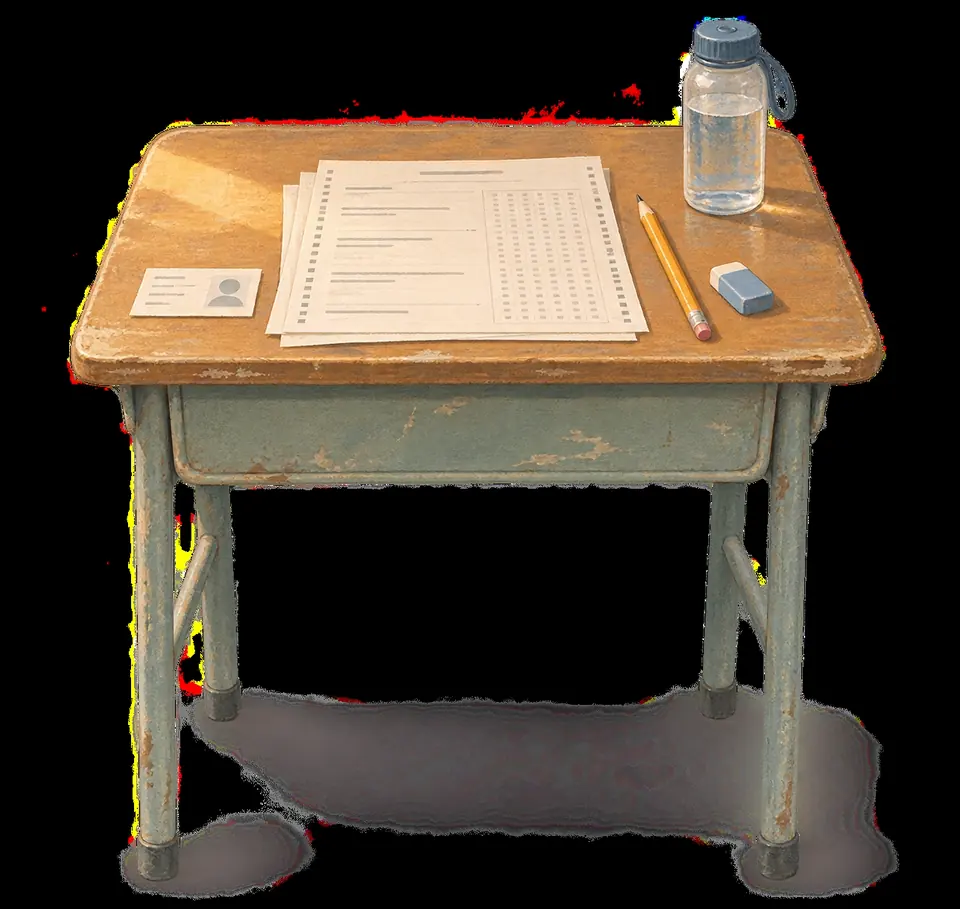
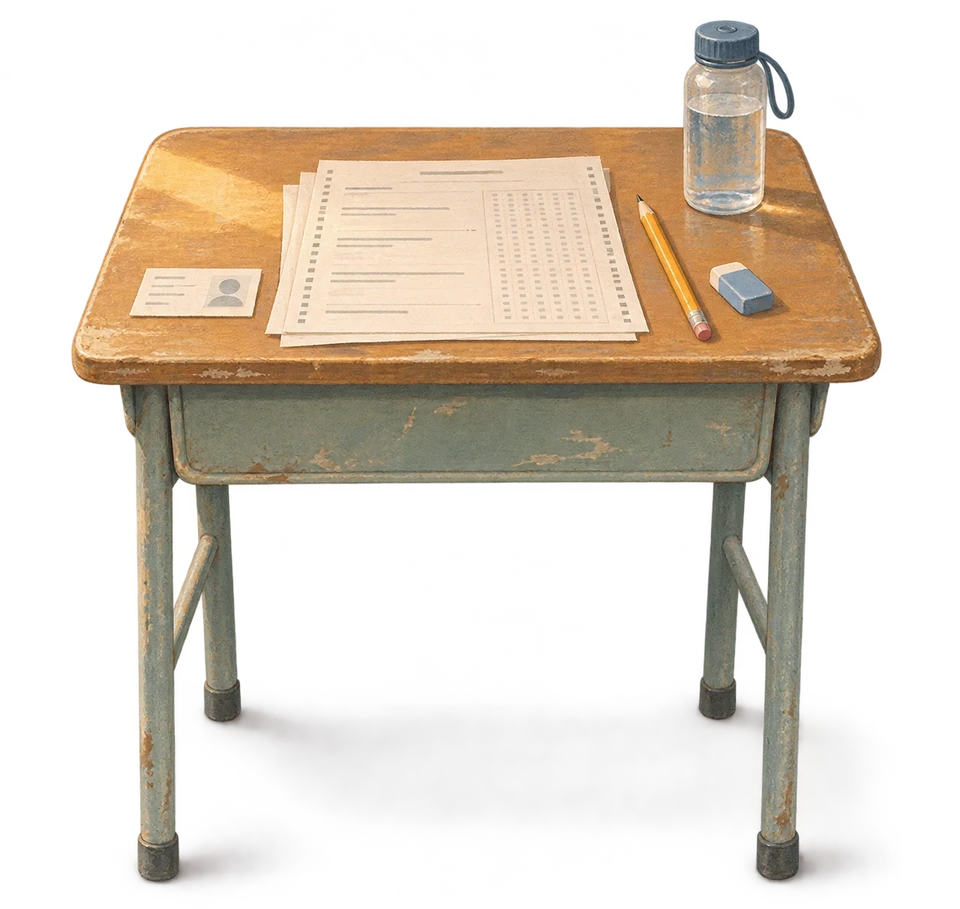
feat(another-life): 启卷粒子重排为相册页
- 开头按片尾同款像素粒子反向重排出生辰相册页
- 阅读态改为停稳进入、回到顶部退出
- 命盘页先显示四柱与文字，金文字形最多等 1.5 秒
- 道具变体保留透明通道，片尾文字放大下移

diff --git a/app/another-life/assets/js/app.js b/app/another-life/assets/js/app.js
@@ -663,7 +663,6 @@
   async function inscription(isEcho = false) {
     echoMode = isEcho;
     showScreen('inscription');
-    await loadGlyphs();
     const token = ++goldToken;
     goldWriters = [];
     $('gold-continue').disabled = true;
@@ -678,11 +677,31 @@
     $('gold-pillars').setAttribute('aria-label', keys.map((key) => chart.pillars[key].ganzhi).join(' '));
     $('gold-terms').innerHTML = `<div class="destiny-identity"><span>${chart.input.genderCode === 'M' ? '乾造' : '坤造'}</span><i></i><span>${n.dm.gan}${n.dm.el}日主</span><i></i><span>${escape(n.strength.label)}</span></div><div class="destiny-reading"><span class="destiny-pattern">${escape(n.geju.name)}</span><div class="destiny-elements"><p><em>喜</em>${n.xiji.xi.map(item=>item.el).join(' · ')}</p><p><em>忌</em>${n.xiji.ji.map(item=>item.el).join(' · ') || '无明确忌神'}</p></div></div><div class="destiny-onset"><span>${chart.yun.forward ? '顺行' : '逆行'} · ${chart.yun.start.years}岁${chart.yun.start.months}个月${chart.yun.start.days}天起运</span><time>${chart.yun.startSolar}</time></div>`;
     const size = innerWidth <= 760 ? 64 : innerHeight <= 700 ? 78 : 100;
-    keys.forEach((key, i) => Array.from(chart.pillars[key].ganzhi).forEach((char, j) => {
-      if (window.FIRE_GLYPHS?.[char]) { { const w = createFireWriter(`glyph-${i}-${j}`, char, size); w.row = j; goldWriters.push(w); } }
-      else $(`glyph-${i}-${j}`).innerHTML = `<span class="gold-char-fallback">${char}</span>`;
+    // 先把四柱显示出来，不等金文字形文件。字形慢时直接落到文字，不让人对着空白页等。
+    const paintFallback = () => keys.forEach((key, i) => Array.from(chart.pillars[key].ganzhi).forEach((char, j) => {
+      const holder = $(`glyph-${i}-${j}`);
+      if (holder) holder.innerHTML = `<span class="gold-char-fallback">${char}</span>`;
     }));
+    paintFallback();
+    // 最多等 1.5 秒；超时就用当前文字先把命盘页交出去，按钮仍然可点。
+    const loaded = await Promise.race([
+      loadGlyphs().then(() => true),
+      new Promise((resolve) => setTimeout(() => resolve(false), 1500)),
+    ]);
+    if (token !== goldToken) return;
+    if (loaded && window.FIRE_GLYPHS) {
+      keys.forEach((key, i) => Array.from(chart.pillars[key].ganzhi).forEach((char, j) => {
+        const holder = $(`glyph-${i}-${j}`);
+        if (!holder) return;
+        holder.innerHTML = '';
+        if (window.FIRE_GLYPHS?.[char]) { const w = createFireWriter(`glyph-${i}-${j}`, char, size); w.row = j; goldWriters.push(w); }
+        else holder.innerHTML = `<span class="gold-char-fallback">${char}</span>`;
+      }));
+    }
+    $('gold-continue').disabled = false;
+    $('gold-continue').innerHTML = echoMode ? '回到这一生 <span>↗</span>' : '焚字入卷 <span>↗</span>';
     if (reduced) return revealGold();
+    if (!goldWriters.length) { revealGold(); return; }
     try {
       // 四柱一起、一口气下来：天干快落到底时，地支紧接着从同一道火线继续往下
       const runs = [];
@@ -1234,104 +1253,136 @@
   async function playEntry() {
     if (entryActive) return;
     const albumKey = innerWidth <= 760 ? 'album-mobile' : 'album-desktop';
-    const albumImage = document.querySelector('.album-art img');
+    const albumEl = document.querySelector('.album-art img');
     if (reduced) { await preloadArt(albumKey); return finishEntry(); }
     entryActive = true;
     const run = ++entryRun;
     $('begin').disabled = true;
-    if (albumImage) albumImage.loading = 'eager';
-    // 相册底图是进入生辰页的整页背景。先把它取回来再起动画，
-    // 否则启卷过程中会先露出背后的场景图，等底图加载完再突然换成相册页。
+    if (albumEl) albumEl.loading = 'eager';
     await Promise.all([sealReady, preloadArt(albumKey)]);
     if (!entryActive || run !== entryRun) return;
+
+    const W = innerWidth, H = innerHeight;
+    const ratio = Math.min(devicePixelRatio || 1, 2);
     const canvas = $('entry-canvas');
-    canvas.hidden = false;
-    const context = canvas.getContext('2d');
-    const width = innerWidth, height = innerHeight;
-    const ratio = Math.min(devicePixelRatio, 2);
-    canvas.width = width * ratio; canvas.height = height * ratio;
-    context.setTransform(ratio, 0, 0, ratio, 0, 0);
+    canvas.hidden = false; canvas.style.opacity = '1';
+    canvas.width = Math.round(W * ratio); canvas.height = Math.round(H * ratio);
+    const ctx = canvas.getContext('2d');
+    ctx.setTransform(ratio, 0, 0, ratio, 0, 0);
+
+    let source = albumEl;
+    if (!source || !source.complete || !source.naturalWidth) {
+      source = new Image();
+      source.src = window.ART[albumKey];
+      try { await source.decode(); } catch (_) { /* 已缓存失败时继续用底色 */ }
+    }
+    const target = document.createElement('canvas');
+    target.width = Math.round(W * ratio); target.height = Math.round(H * ratio);
+    const tc = target.getContext('2d');
+    tc.setTransform(ratio, 0, 0, ratio, 0, 0);
+    tc.fillStyle = '#f4eedf'; tc.fillRect(0, 0, W, H);
+    const stageW = Math.max(W, 1.7777778 * H);
+    const stageH = Math.max(H, .5625 * W);
+    if (source && source.naturalWidth) tc.drawImage(source, (W - stageW) / 2, (H - stageH) / 2, stageW, stageH);
+    // 像片尾那样连标题/扉页文字一起取样，不是只拼一张空相册
+    const birth = $('birth');
+    const copy = document.querySelector('.birth-copy');
+    const wasHidden = birth.hidden;
+    const copyOpacity = copy ? copy.style.opacity : '';
+    birth.hidden = false;
+    if (copy) copy.style.opacity = '1';
+    try { paintDom(tc, [document.querySelector('header'), copy].filter(Boolean)); } catch (_) { /* 忽略 */ }
+    birth.hidden = wasHidden;
+    if (copy) copy.style.opacity = copyOpacity;
+
+    const step = Math.max(4, Math.round(Math.sqrt(W * H / 13000)));
+    const cols = Math.ceil(W / step), rows = Math.ceil(H / step);
+    const cell = document.createElement('canvas'); cell.width = cols; cell.height = rows;
+    const cc = cell.getContext('2d', { willReadFrequently: true });
+    cc.imageSmoothingQuality = 'high';
+    cc.drawImage(target, 0, 0, W * ratio, H * ratio, 0, 0, cols, rows);
+    const td = cc.getImageData(0, 0, cols, rows).data;
+
     const rect = $('entry-seal').getBoundingClientRect();
     const sampled = document.createElement('canvas');
-    sampled.width = Math.round(rect.width); sampled.height = Math.round(rect.height);
-    const sampleContext = sampled.getContext('2d', { willReadFrequently:true });
-    const sourceWidth = width <= 760 ? 490 : 550;
+    sampled.width = Math.max(1, Math.round(rect.width));
+    sampled.height = Math.max(1, Math.round(rect.height));
+    const sc = sampled.getContext('2d', { willReadFrequently: true });
+    const sourceWidth = W <= 760 ? 490 : 550;
     const sourceHeight = sourceWidth * sealImage.height / sealImage.width;
-    sampleContext.drawImage(sealImage, (rect.width - sourceWidth) / 2, (rect.height - sourceHeight) * .52, sourceWidth, sourceHeight);
-    const data = sampleContext.getImageData(0, 0, sampled.width, sampled.height).data;
-    const particles = [];
-    const centerX = rect.left + rect.width / 2;
-    const centerY = rect.top + rect.height / 2;
-    const midX = sampled.width / 2, midY = sampled.height / 2;
-    const maxR = Math.hypot(midX, midY);
+    sc.drawImage(sealImage, (rect.width - sourceWidth) / 2, (rect.height - sourceHeight) * .52, sourceWidth, sourceHeight);
+    const sd = sc.getImageData(0, 0, sampled.width, sampled.height).data;
+    const starts = [];
+    for (let y = 0; y < sampled.height; y += 2) for (let x = 0; x < sampled.width; x += 2) {
+      const i = (y * sampled.width + x) * 4;
+      if (sd[i] <= 105 || sd[i] <= sd[i + 1] * 1.45 || sd[i + 1] >= 155) continue;
+      starts.push({ x: rect.left + x, y: rect.top + y, r: sd[i], g: sd[i + 1], b: sd[i + 2] });
+    }
+    if (!starts.length) starts.push({ x: rect.left + rect.width / 2, y: rect.top + rect.height / 2, r: 190, g: 60, b: 45 });
+    let rs = 20261110;
+    const rnd = () => ((rs = (rs * 1664525 + 1013904223) >>> 0) / 4294967296);
+    for (let i = starts.length - 1; i > 0; i--) { const j = (rnd() * (i + 1)) | 0; [starts[i], starts[j]] = [starts[j], starts[i]]; }
 
-    const coarse = innerWidth <= 760;
-    const step = 2;
-    for (let y = 0; y < sampled.height; y += step) {
-      for (let x = 0; x < sampled.width; x += step) {
-        const i = (y * sampled.width + x) * 4;
-        if (data[i] <= 105 || data[i] <= data[i + 1] * 1.45 || data[i + 1] >= 155) continue;
-        const seed = (particles.length * .61803398875) % 1;
-        const depth = .35 + ((particles.length * .754877666) % 1) * 1.2;
-        const originX = rect.left + x + (seed - .5) * step * .8;
-        const originY = rect.top + y + (seed - .5) * step * .8;
-        const angle = ((particles.length * .41421356237) % 1) * Math.PI * 2;
-        const speed = 24 + ((particles.length * .73205080756) % 1) * 44;
-        const radial = Math.hypot(x - midX, y - midY) / maxR;
-        particles.push({ x:originX, y:originY, seed, depth,
-          release:(1 - radial) * .52 + seed * .18,
-          vx:Math.cos(angle)*speed*depth + 7, vy:Math.sin(angle)*speed*depth-14,
-          lifetime:1.1+seed*1.4,
-          color:`rgb(${Math.min(255, data[i] + seed * 22)},${Math.min(220, data[i + 1] + seed * 20)},${data[i + 2]})`,
-          previousX:originX, previousY:originY,
-        });
-      }
+    const P = [];
+    let n = 0;
+    for (let y = 0; y < rows; y++) for (let x = 0; x < cols; x++) {
+      const i = (y * cols + x) * 4;
+      const s = starts[n % starts.length]; n++;
+      const tx = x * step + step / 2, ty = y * step + step / 2;
+      const mx = (s.x + tx) / 2 + (rnd() - .5) * W * .42;
+      const my = (s.y + ty) / 2 + (rnd() - .5) * H * .42 - H * .08;
+      P.push({ sx: s.x, sy: s.y, tx, ty, cx: mx, cy: my,
+        sr: s.r, sg: s.g, sb: s.b, tr: td[i], tg: td[i + 1], tb: td[i + 2], d: rnd() * .16 });
     }
-    const clamp = value => Math.max(0, Math.min(1, value));
-    const state = { pixels:0, travel:0, fade:0 };
-    function paint() {
-      context.clearRect(0, 0, width, height);
-      $('entry-seal').style.opacity = String(1 - state.pixels);
-      for (const p of particles) {
-        const elapsed = Math.max(0, state.travel * 4.4 - p.release * 1.65);
-        const u = clamp(elapsed / p.lifetime);
-        const gust = elapsed * elapsed;
-        const x = p.x + p.vx * elapsed + gust * 11 + Math.sin(elapsed * 2.4 + p.seed * 18) * elapsed * 11;
-        const y = p.y + p.vy * elapsed - gust * 8 + Math.cos(elapsed * 2.1 + p.seed * 14) * elapsed * 9;
-        const fade = Math.exp(-Math.pow(elapsed / p.lifetime, 2.3)) * (1 - state.fade);
-        const opacity = state.pixels * fade;
-        const size = Math.max(.35, ((coarse ? 1.2 : .8) + p.depth * .2) * (1 - u * .55));
-        context.fillStyle = p.color;
-        if (!coarse && u > .05 && u < .97 && p.depth > 1.2) {
-          context.strokeStyle = p.color; context.lineWidth = size * .5;
-          context.globalAlpha = opacity * .12;
-          context.beginPath(); context.moveTo(p.previousX, p.previousY); context.lineTo(x, y); context.stroke();
+    const clamp = (v) => Math.max(0, Math.min(1, v));
+    const ease = (u) => u < .5 ? 4 * u * u * u : 1 - Math.pow(-2 * u + 2, 3) / 2;
+    const state = { p: 0, r: 0 };
+    const tmp = document.createElement('canvas');
+    const tx = tmp.getContext('2d');
+    const paint = () => {
+      const p = state.p, r = state.r;
+      ctx.clearRect(0, 0, W, H);
+      $('entry-seal').style.opacity = String(1 - clamp((p - .18) / .5));
+      if (p >= 1 || r > 0) {
+        // 反向复刻片尾的 1.5 秒像素化前奏：从整格像素页逐级还原到清晰页
+        const b = Math.max(1, Math.pow(step, 1 - ease(clamp(r))));
+        if (b <= 1.4) {
+          ctx.imageSmoothingEnabled = true;
+          ctx.drawImage(target, 0, 0, target.width, target.height, 0, 0, W, H);
+        } else {
+          const c2 = Math.ceil(W / b), r2 = Math.ceil(H / b);
+          tmp.width = c2; tmp.height = r2;
+          tx.clearRect(0, 0, c2, r2);
+          tx.imageSmoothingQuality = 'high';
+          tx.drawImage(target, 0, 0, target.width, target.height, 0, 0, c2, r2);
+          ctx.imageSmoothingEnabled = false;
+          ctx.drawImage(tmp, 0, 0, c2, r2, 0, 0, W, H);
+          ctx.imageSmoothingEnabled = true;
         }
-        context.globalAlpha = opacity;
-        context.fillRect(x - size / 2, y - size / 2, size, size);
-        if (!coarse && u > .1 && p.depth > 1.4) {
-          context.globalAlpha = opacity * .06;
-          context.beginPath(); context.arc(x, y, size * 3.2, 0, Math.PI * 2); context.fill();
-        }
-        p.previousX = x; p.previousY = y;
+        return;
       }
-      context.globalAlpha = 1;
-    }
-    entryTimeline = gsap.timeline({ onUpdate:paint, onComplete:finishEntry });
-    entryTimeline.to(['#entry-caption', '#begin'], { opacity:0, duration:.65 }, 0);
-    entryTimeline.to(state, { pixels:1, duration:.85, ease:'power2.inOut' }, .3);
-    entryTimeline.to(state, { travel:1, duration:3.7, ease:'power2.inOut' }, .8);
-    entryTimeline.call(() => {
-      $('birth').hidden = false;
-      document.body.dataset.screen = 'birth';
-      gsap.set('.birth-copy', { opacity:0, y:10 });
-      gsap.set('.form-wrap', { opacity:0, y:12 });
-    }, [], 1.8);
-    entryTimeline.to('#cover', { opacity:0, duration:1.5, ease:'power2.inOut' }, 1.9);
-    entryTimeline.to('.birth-copy', { opacity:1, y:0, duration:1.1, ease:'power2.out' }, 2.6);
-    entryTimeline.to('.form-wrap', { opacity:1, y:0, duration:1.35, ease:'power2.out' }, 2.9);
-    entryTimeline.to(state, { fade:1, duration:1.8, ease:'power1.inOut' }, 3.1);
-    entryTimeline.to({}, { duration:.25 });
+      for (const q of P) {
+        const local = clamp((p - q.d) / (1 - q.d || 1));
+        const ee = ease(local), m = 1 - ee;
+        const x = m * m * q.sx + 2 * m * ee * q.cx + ee * ee * q.tx;
+        const y = m * m * q.sy + 2 * m * ee * q.cy + ee * ee * q.ty;
+        const c = clamp((local - .45) / .5);
+        const size = 2.1 + (step + .6 - 2.1) * ee;
+        ctx.fillStyle = `rgb(${(q.sr + (q.tr - q.sr) * c) | 0},${(q.sg + (q.tg - q.sg) * c) | 0},${(q.sb + (q.tb - q.sb) * c) | 0})`;
+        ctx.fillRect(x - size / 2, y - size / 2, size, size);
+      }
+    };
+    paint();
+    gsap.set(['.birth-copy', '.form-wrap'], { opacity: 0, y: 8 });
+    entryTimeline = gsap.timeline({ onUpdate: paint, onComplete: finishEntry });
+    entryTimeline.to(['#entry-caption', '#begin'], { opacity: 0, duration: .4 }, 0);
+    entryTimeline.to(state, { p: 1, duration: 4.4, ease: 'power2.inOut' }, .1);
+    entryTimeline.call(() => { showScreen('birth'); }, [], 4.5);
+    entryTimeline.to(state, { r: 1, duration: 1.5, ease: 'power1.inOut' }, 4.5);
+    entryTimeline.to(canvas, { opacity: 0, duration: .45, ease: 'power1.inOut' }, 5.8);
+    entryTimeline.to('.birth-copy', { opacity: 1, y: 0, duration: .5, ease: 'power2.out' }, 5.85);
+    entryTimeline.to('.form-wrap', { opacity: 1, y: 0, duration: .7, ease: 'power2.out' }, 5.95);
+    entryTimeline.to({}, { duration: .2 });
   }
 
   function syncBirthReels(direction=0, activeId=null) {
@@ -1606,12 +1657,12 @@
   })();
 
   // 正文向上翻读时，画面收起一部分，给文字留出空间。
-  // 需要先滚出一小段再进入（避免轻扫就锁住），并允许向下滑/滚轮向上回位。
+  // 滚动停稳后再进入，避免上滑途中突然让位；回到顶部才退出，回滑不会中途收起。
   (function storyReading() {
     const copy = $('story-copy');
     if (new URLSearchParams(location.search).get('read') === 'move') document.body.classList.add('read-move');
-    const THRESHOLD = 48, RETRIGGER = 24, DELAY = 110, COOLDOWN = 700;
-    let timer = 0, suppress = 0, touchY = null;
+    const THRESHOLD = 48, RETRIGGER = 24, DELAY = 300, COOLDOWN = 500;
+    let timer = 0, suppress = 0;
     const reading = () => document.body.classList.contains('story-reading');
     const enter = () => {
       clearTimeout(timer); timer = 0;
@@ -1624,23 +1675,20 @@
     };
     const onScroll = () => {
       if (performance.now() < suppress) return;
+      if (reading()) {
+        if (copy.scrollTop <= 4) leave();
+        return;
+      }
       if (copy.scrollTop > THRESHOLD) {
-        if (!reading() && !timer) timer = setTimeout(() => {
+        if (!timer) timer = setTimeout(() => {
           timer = 0;
           if (copy.scrollTop > RETRIGGER) enter();
         }, DELAY);
-      } else if (!reading()) {
+      } else {
         clearTimeout(timer); timer = 0;
       }
     };
     copy.addEventListener('scroll', onScroll, { passive: true });
-    // 向下滑 / 滚轮向上 = 回位；同一次上滑不会误触
-    copy.addEventListener('wheel', (e) => { if (reading() && e.deltaY < 0) leave(); }, { passive: true });
-    copy.addEventListener('touchstart', (e) => { touchY = e.touches[0] ? e.touches[0].clientY : null; }, { passive: true });
-    copy.addEventListener('touchmove', (e) => {
-      if (!reading() || touchY == null || !e.touches[0]) return;
-      if (e.touches[0].clientY - touchY > 8) leave();
-    }, { passive: true });
   })();
 
   document.addEventListener('visibilitychange', () => {

diff --git a/app/another-life/assets/css/app.css b/app/another-life/assets/css/app.css
@@ -618,7 +618,7 @@ body.no-enter #story *,body.no-enter #story *::before,body.no-enter #story *::af
   body.no-enter[data-screen=story] #story .st-panel{transition:top .6s cubic-bezier(.16,1,.3,1),padding-bottom .6s cubic-bezier(.16,1,.3,1)!important}
   body.no-enter[data-screen=story] #story::before{transition:opacity .5s ease!important}
   body.no-enter[data-screen=story].story-reading.read-move .scene-image{transition:translate .6s cubic-bezier(.16,1,.3,1)!important}
-  #finale-text{left:12vw;top:10dvh;font-size:clamp(30px,8.4vw,52px)}
+  #finale-text{left:12vw;top:12dvh;font-size:clamp(34px,9.2vw,58px)}
 }
 #finale-canvas{position:fixed;inset:0;width:100vw;height:100dvh;z-index:210;pointer-events:none}
 body.finale-end #entry-caption,body.finale-end #begin,body.finale-end #skip-entry{display:none!important}

diff --git a/docs/CHANGELOG.md b/docs/CHANGELOG.md
@@ -17,13 +17,15 @@
 - 烧字转场与故事首屏的构图对齐，消除烧完后的小幅位移。
 - 片尾背景左右翻转，并同步手机端裁切。
 - 故事正文上翻时，画面遮盖约 36% 扩大阅读空间；默认遮盖，`?read=move` 可看画面上移版本。
-- 阅读态改为滑动一小段后再进入，并加阻尼；向下滑可回位，不再轻扫锁死。
-- 阅读态展开时同步补足底部空间，避免正文在过渡中自动滚回顶部。
-- 阅读态遮罩改为从透明到深青的渐变，画面过渡更柔和。
+- 阅读态改为滚动停稳后进入、回到顶部才退出，并保持正文滚动位置；遮罩为透明渐变。
 - 修复「显示全部」隐藏后命盘页重新居中造成的轻微位移。
 - 封面印章改为去底透明版本，消除开头与结尾的矩形阴影。
-- 启卷粒子改为更细的圆点，并从印章边缘向内消散。
-- 启卷粒子改用方点绘制、降低采样密度并去掉移动端拖尾/光晕，保留粒子消散的同时解决开头卡顿。
+- 修复章节道具的响应式变体丢失透明通道、出现黑色矩形底的问题。
+- 命盘页先显示四柱与文字，金文字形最多等 1.5 秒，不再卡住「焚字入卷」。
+- 片尾文字加大并略微下移。
+- 启卷按片尾同款像素粒子反向：约 1.3 万粒、曲线路径与颜色过渡，重排成带扉页标题的相册页，再落到真实生辰页。
+- 启卷粒子散开与片尾同节奏，延长到约 4.4 秒，整体约 6 秒。
+- 启卷的取样密度、1.5 秒像素前奏、路径弯曲与颜色过渡参数统一为片尾同款。
 - 提高烧字转场画布的分辨率，消除烧开的画面与文字突然变清晰的问题。
 - 修正桌面端烧字转场背景只显示上半截、进入故事页后突然换图的问题。
 - 修正低高度 PC 片尾「活」被视口裁掉的问题，终章文字按视口高度缩放。
